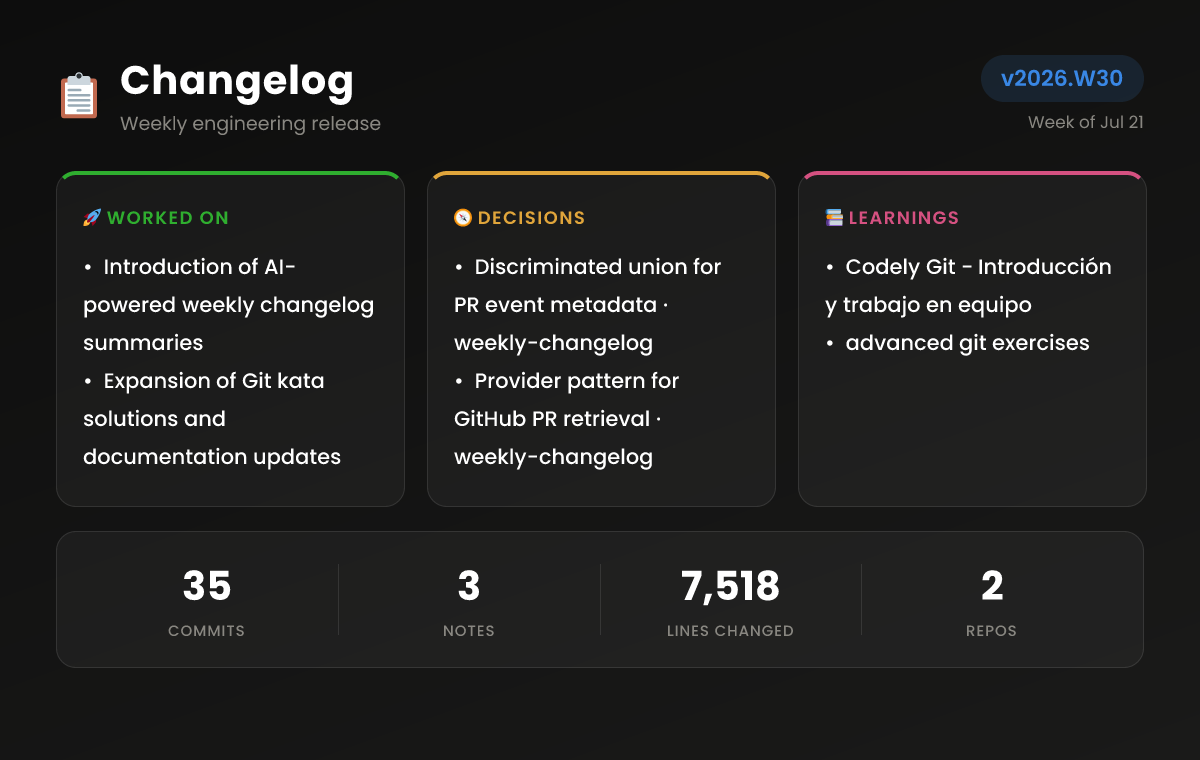
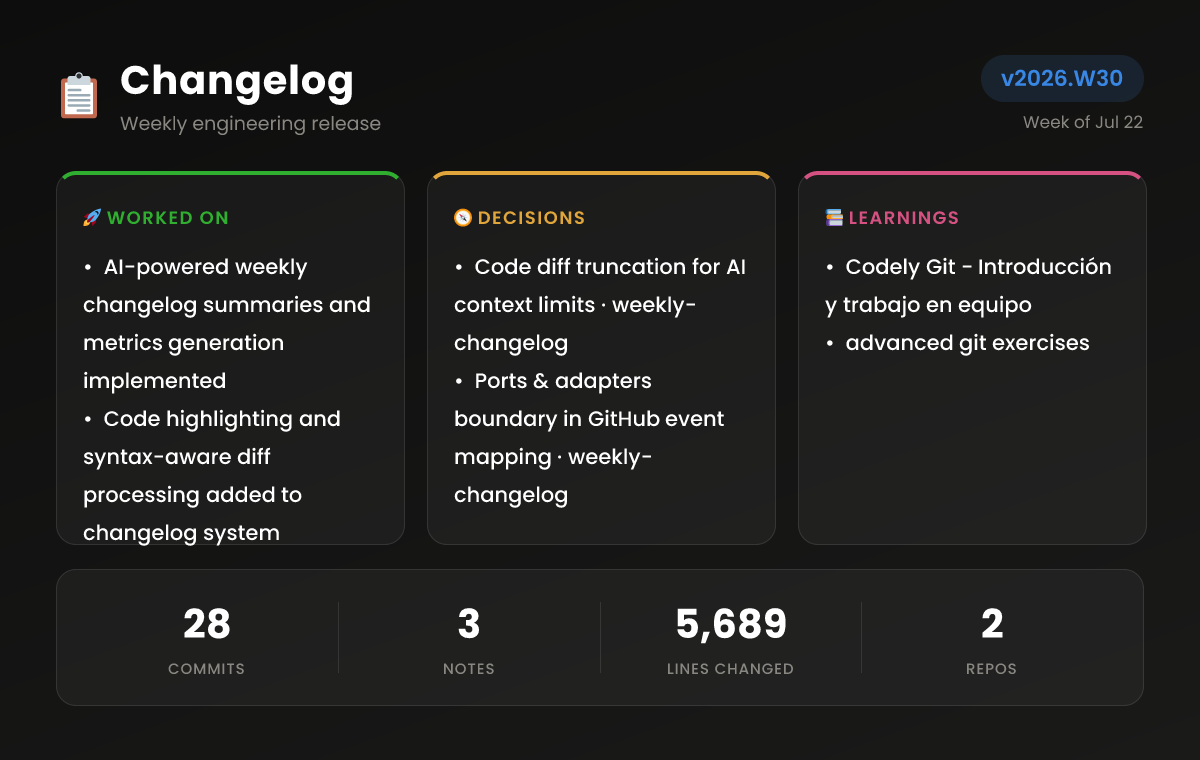
chore: publish weekly changelog (run 7)

diff --git a/docs/index.html b/docs/index.html
@@ -222,13 +222,13 @@
   <div class="page">
     <header class="page-header">
       <h1>Weekly Changelog</h1>
-      <span class="week-pill">Week of Jul 21</span>
+      <span class="week-pill">Week of Jul 22</span>
     </header>
     
     <section class="digest-hero accent-yellow">
       <p class="digest-eyebrow"><span class="ai-badge">AI</span>This week</p>
-      <h2 class="digest-headline">AI changelog summaries and Git kata enhancements deployed</h2>
-      <p class="digest-summary">AI-driven digest generation and third-party pull request tracking introduced. Git exercise solutions expanded and external repository forked.</p>
+      <h2 class="digest-headline">AI-driven changelog summaries and code highlights introduced</h2>
+      <p class="digest-summary">Introduction of AI-driven summaries and metrics for weekly changelogs, alongside code highlighting and structural enhancements to the changelog system. Git kata exercises expanded with calculator functions and login/logout workflows.</p>
     </section>
     
     <section class="dashboard-section">
@@ -236,98 +236,78 @@
       <div class="highlight-grid">
     <article class="highlight-card">
       <header class="highlight-head">
-        <span class="highlight-title"><span class="ai-badge">AI</span>Discriminated union for PR event metadata</span>
+        <span class="highlight-title"><span class="ai-badge">AI</span>Code diff truncation for AI context limits</span>
         <span class="pill highlight-repo">weekly-changelog</span>
       </header>
       <div class="highlight-body">
-        <pre class="code-panel"><code class="language-typescript">export type PullRequestState = &#39;opened&#39; | &#39;merged&#39;
+        <pre class="code-panel"><code class="language-typescript">const MAX_PATCH_CHARS_PER_FILE = 1600
+const MAX_FILES = 14
+const MAX_DIFF_CHARS = 9000
 
-export interface PullRequestEventMeta {
-  [key: string]: unknown
-  source: &#39;github&#39;
-  type: &#39;PullRequestEvent&#39;
-  state: PullRequestState
-  repo: string
-  number: number
-  title: string
-  url: string
-}
+function buildCodeDiffs(activities: Activity[]): string {
+  const blocks: string[] = []
+  let fileCount = 0
+  let totalChars = 0
 
-export function isPullRequestEvent(metaData: Record&lt;string, unknown&gt;): metaData is PullRequestEventMeta {
-  return metaData.type === &#39;PullRequestEvent&#39;
+  for (const activity of activities) {
+    const meta = activity.metaData
+    if (!isPushEvent(meta)) continue
+
+    const repo = repoShortName(meta.repo.name)
+
+    for (const file of meta.files ?? []) {
+      if (!file.patch || NOISE_PATH.test(file.filename)) continue
+      if (fileCount &gt;= MAX_FILES || totalChars &gt;= MAX_DIFF_CHARS) break
+
+      const patch = file.patch.length &gt; MAX_PATCH_CHARS_PER_FILE
+        ? `${file.patch.slice(0, MAX_PATCH_CHARS_PER_FILE)}\n… (truncated)`
+        : file.patch
+
+      const block = `# repo: ${repo}\n# file: ${file.filename}\n${patch}`
+      blocks.push(block)
+      fileCount++
+      totalChars += block.length
+    }
+  }
+
+  return blocks.join(&#39;\n\n&#39;)
 }</code></pre>
         <pre class="mermaid">flowchart TD
-  A[Activity] --&gt; B{Meta Type}
-  B --&gt;|PullRequestEvent| C[PR Event Meta]
-  B --&gt;|Other| D[Other Meta]</pre>
+  A[GitHub Push Event] --&gt; B[Filter Noise Paths]
+  B --&gt; C[Truncate Patches]
+  C --&gt; D[Limit Files &amp; Chars]
+  D --&gt; E[AI Digest Generation]</pre>
       </div>
     </article>
     <article class="highlight-card">
       <header class="highlight-head">
-        <span class="highlight-title"><span class="ai-badge">AI</span>Provider pattern for GitHub PR retrieval</span>
+        <span class="highlight-title"><span class="ai-badge">AI</span>Ports &amp; adapters boundary in GitHub event mapping</span>
         <span class="pill highlight-repo">weekly-changelog</span>
       </header>
       <div class="highlight-body">
-        <pre class="code-panel"><code class="language-typescript">export class GithubPullRequestRetriever extends SourceRetriever {
-  constructor(
-    private readonly retriever: Octokit,
-    private readonly userName: string,
-    mappers: EventMapper[]
-  ) {
-    super(mappers);
-  }
-
-  async fetchAll(): Promise&lt;any[]&gt; {
-    const q = `type:pr author:${this.userName} -user:${this.userName} is:public`;
-    const response = await this.retriever.rest.search.issuesAndPullRequests({
-      q,
-      sort: &#39;updated&#39;,
-      order: &#39;desc&#39;,
-      per_page: 50,
-    });
-    return response.data.items;
+        <pre class="code-panel"><code class="language-typescript">export class GithubPushEventMapper implements EventMapper {
+  map(event: GithubPushEvent): Activity {
+    const files = (event.rawCommits.files ?? []).map((file) =&gt; ({
+      filename: file.filename,
+      additions: file.additions ?? 0,
+      deletions: file.deletions ?? 0,
+      ...(file.patch ? { patch: file.patch } : {}),
+    }));
+    return {
+      ...this.baseActivity(event),
+      metaData: {
+        ...this.baseMetaData(event),
+        files,
+      },
+    };
   }
 }</code></pre>
         <pre class="mermaid">flowchart TD
-  A[GithubPullRequestRetriever] --&gt; B[SourceRetriever]
-  A --&gt; C[Octokit]
-  A --&gt; D[EventMapper]</pre>
-      </div>
-    </article>
-    <article class="highlight-card">
-      <header class="highlight-head">
-        <span class="highlight-title"><span class="ai-badge">AI</span>Adapter for GitHub PR search API mapping</span>
-        <span class="pill highlight-repo">weekly-changelog</span>
-      </header>
-      <div class="highlight-body">
-        <pre class="code-panel"><code class="language-typescript">export class GithubPullRequestEventMapper implements EventMapper {
-    canHandle(item: any): boolean {
-        if (!item?.pull_request) return false
-        const merged = Boolean(item.pull_request.merged_at)
-        const open = item.state === &#39;open&#39;
-        return merged || open
-    }
-
-    map(item: any): Activity {
-        const mergedAt: string | null = item.pull_request?.merged_at ?? null
-        const state = mergedAt ? &#39;merged&#39; : &#39;opened&#39;
-        const occurredAt = mergedAt ?? item.created_at
-
-        return Activity.create(new Date(occurredAt), {
-            source: &#39;github&#39;,
-            type: &#39;PullRequestEvent&#39;,
-            state,
-            repo: repoFromApiUrl(item.repository_url),
-            number: item.number,
-            title: item.title,
-            url: item.html_url,
-        })
-    }
-}</code></pre>
-        <pre class="mermaid">flowchart TD
-  A[GithubPullRequestEventMapper] --&gt; B[EventMapper]
-  A --&gt; C[Activity]
-  A --&gt; D[PullRequestEvent]</pre>
+  A[GithubPushEvent] --&gt; B[EventMapper Interface]
+  B --&gt; C[GithubPushEventMapper.map]
+  C --&gt; D[Domain Activity]
+  D --&gt; E[Files with Patch Data]
+  E --&gt; F[AI Digest Generation]</pre>
       </div>
     </article></div>
     </section>
@@ -336,15 +316,15 @@ export function isPullRequestEvent(metaData: Record&lt;string, unknown&gt;): met
       <h2>Metrics</h2>
       <div class="metric-grid">
     <div class="metric-tile">
-      <span class="metric-value">89%</span>
+      <span class="metric-value">86%</span>
       <span class="metric-label">Atomic commits</span>
     </div>
     <div class="metric-tile">
-      <span class="metric-value">215</span>
+      <span class="metric-value">203</span>
       <span class="metric-label">Avg commit size (lines)</span>
     </div>
     <div class="metric-tile">
-      <span class="metric-value">3%</span>
+      <span class="metric-value">4%</span>
       <span class="metric-label">Test ratio</span>
     </div>
     <div class="metric-tile">
@@ -352,7 +332,7 @@ export function isPullRequestEvent(metaData: Record&lt;string, unknown&gt;): met
       <span class="metric-label">Refactor ratio</span>
     </div>
     <div class="metric-tile">
-      <span class="metric-value">3%</span>
+      <span class="metric-value">4%</span>
       <span class="metric-label">Documentation ratio</span>
     </div>
     <div class="metric-tile">
@@ -366,31 +346,31 @@ export function isPullRequestEvent(metaData: Record&lt;string, unknown&gt;): met
     <div class="bar-row">
       <span class="bar-label">feat</span>
       <span class="bar-track"><span class="bar-fill" style="width: 100%"></span></span>
-      <span class="bar-value">25</span>
+      <span class="bar-value">19</span>
     </div>
     <div class="bar-row">
       <span class="bar-label">other</span>
-      <span class="bar-track"><span class="bar-fill" style="width: 16%"></span></span>
+      <span class="bar-track"><span class="bar-fill" style="width: 21.052631578947366%"></span></span>
       <span class="bar-value">4</span>
     </div>
     <div class="bar-row">
       <span class="bar-label">chore</span>
-      <span class="bar-track"><span class="bar-fill" style="width: 12%"></span></span>
-      <span class="bar-value">3</span>
+      <span class="bar-track"><span class="bar-fill" style="width: 10.526315789473683%"></span></span>
+      <span class="bar-value">2</span>
     </div>
     <div class="bar-row">
       <span class="bar-label">docs</span>
-      <span class="bar-track"><span class="bar-fill" style="width: 4%"></span></span>
+      <span class="bar-track"><span class="bar-fill" style="width: 5.263157894736842%"></span></span>
       <span class="bar-value">1</span>
     </div>
     <div class="bar-row">
       <span class="bar-label">test</span>
-      <span class="bar-track"><span class="bar-fill" style="width: 4%"></span></span>
+      <span class="bar-track"><span class="bar-fill" style="width: 5.263157894736842%"></span></span>
       <span class="bar-value">1</span>
     </div>
     <div class="bar-row">
       <span class="bar-label">fix</span>
-      <span class="bar-track"><span class="bar-fill" style="width: 4%"></span></span>
+      <span class="bar-track"><span class="bar-fill" style="width: 5.263157894736842%"></span></span>
       <span class="bar-value">1</span>
     </div></div>
         </div>
@@ -400,41 +380,41 @@ export function isPullRequestEvent(metaData: Record&lt;string, unknown&gt;): met
     <div class="bar-row">
       <span class="bar-label">TypeScript</span>
       <span class="bar-track"><span class="bar-fill" style="width: 100%"></span></span>
-      <span class="bar-value">134</span>
+      <span class="bar-value">114</span>
     </div>
     <div class="bar-row">
       <span class="bar-label">HTML</span>
-      <span class="bar-track"><span class="bar-fill" style="width: 6.7164179104477615%"></span></span>
-      <span class="bar-value">9</span>
-    </div>
-    <div class="bar-row">
-      <span class="bar-label">JSON</span>
-      <span class="bar-track"><span class="bar-fill" style="width: 3.731343283582089%"></span></span>
+      <span class="bar-track"><span class="bar-fill" style="width: 4.385964912280701%"></span></span>
       <span class="bar-value">5</span>
     </div>
     <div class="bar-row">
       <span class="bar-label">Markdown</span>
-      <span class="bar-track"><span class="bar-fill" style="width: 2.2388059701492535%"></span></span>
+      <span class="bar-track"><span class="bar-fill" style="width: 2.631578947368421%"></span></span>
+      <span class="bar-value">3</span>
+    </div>
+    <div class="bar-row">
+      <span class="bar-label">JSON</span>
+      <span class="bar-track"><span class="bar-fill" style="width: 2.631578947368421%"></span></span>
       <span class="bar-value">3</span>
     </div>
     <div class="bar-row">
       <span class="bar-label">JavaScript</span>
-      <span class="bar-track"><span class="bar-fill" style="width: 1.4925373134328357%"></span></span>
+      <span class="bar-track"><span class="bar-fill" style="width: 1.7543859649122806%"></span></span>
       <span class="bar-value">2</span>
     </div>
     <div class="bar-row">
       <span class="bar-label">Python</span>
-      <span class="bar-track"><span class="bar-fill" style="width: 1.4925373134328357%"></span></span>
+      <span class="bar-track"><span class="bar-fill" style="width: 1.7543859649122806%"></span></span>
       <span class="bar-value">2</span>
     </div>
     <div class="bar-row">
       <span class="bar-label">Shell</span>
-      <span class="bar-track"><span class="bar-fill" style="width: 0.7462686567164178%"></span></span>
+      <span class="bar-track"><span class="bar-fill" style="width: 0.8771929824561403%"></span></span>
       <span class="bar-value">1</span>
     </div>
     <div class="bar-row">
       <span class="bar-label">YAML</span>
-      <span class="bar-track"><span class="bar-fill" style="width: 0.7462686567164178%"></span></span>
+      <span class="bar-track"><span class="bar-fill" style="width: 0.8771929824561403%"></span></span>
       <span class="bar-value">1</span>
     </div></div>
         </div>
@@ -452,7 +432,7 @@ export function isPullRequestEvent(metaData: Record&lt;string, unknown&gt;): met
             <span class="pill">14 commits</span>
           </span>
         </header>
-        <p class="repo-evaluation"><span class="ai-badge">AI</span>Git exercise solutions expanded with calculator functions and login/logout workflows documented</p>
+        <p class="repo-evaluation"><span class="ai-badge">AI</span>Calculator functions and login/logout workflows added to git kata exercises</p>
         <ul class="commits">
           <li>chore: initial commit</li><li>feat: add login</li><li>feat: add logout</li><li>Merge pull request #2 from jormiquis/feature/02-squash-rebase-solution</li><li>feat: add login</li><li>feat: add logout</li><li>feat: add divide function</li><li>feat: add power function</li><li>docs: update readme</li><li>test:  add test for calculator</li><li>chore: delete .sh unnused code</li><li>Merge pull request #1 from jormiquis/feature/first-exercise-solution</li><li>Initial commit: basic calculator</li><li>feat: first exercise statement, wrong commit to be broken down for proper git history</li>
         </ul>
@@ -462,15 +442,15 @@ export function isPullRequestEvent(metaData: Record&lt;string, unknown&gt;): met
         <header class="entry-head">
           <a class="entry-title" href="https://github.com/jormiquis/weekly-changelog" target="_blank" rel="noopener">weekly-changelog</a>
           <span class="head-meta">
-            <span class="diffstat"><span class="add">+6230</span> <span class="del">−1229</span></span>
-            <span class="pill">21 commits</span>
+            <span class="diffstat"><span class="add">+4308</span> <span class="del">−1322</span></span>
+            <span class="pill">14 commits</span>
           </span>
         </header>
-        <p class="repo-evaluation"><span class="ai-badge">AI</span>AI-driven changelog generation and third-party PR tracking implemented with new dashboard and visual improvements</p>
+        <p class="repo-evaluation"><span class="ai-badge">AI</span>AI-driven changelog summaries, code highlighting, and structural enhancements implemented</p>
         <ul class="commits">
-          <li>feat: add pr flow for own and open source contributions</li><li>feat: enhance weekly changelog with AI-driven summaries and metrics</li><li>feat: delegated content to ai</li><li>feat: added forkEvent to flow</li><li>feat: added forkEvent to flow</li><li>added telegramChecker</li><li>feat: added telegram checker</li><li>feat: Implement MistralSourceSynthesizer for AI digest generation</li><li>feat: Enhance event handling to ignore private GitHub events and update permissions</li><li>feat: created new changelog card and adapted dashboard</li><li>fix: updated ngative response from telegram bot</li><li>feat: post generation delegated on deterministic approach</li><li>feat: update build script to copy fonts to distribution</li><li>feat: made card larger for better readabily</li><li>feat: re-styles visual components</li><li>feat: created dashboard</li><li>feat: created dashboard</li><li>feat: added index html</li><li>chore: disable Jekyll for GitHub Pages</li><li>feat: added card component</li><li>feat: added rule to gh mapper for just capturing pushes for owner repos</li>
+          <li>feat: add code highlights</li><li>feat: add pr flow for own and open source contributions</li><li>feat: enhance weekly changelog with AI-driven summaries and metrics</li><li>feat: delegated content to ai</li><li>feat: added forkEvent to flow</li><li>feat: added forkEvent to flow</li><li>added telegramChecker</li><li>feat: added telegram checker</li><li>feat: Implement MistralSourceSynthesizer for AI digest generation</li><li>feat: Enhance event handling to ignore private GitHub events and update permissions</li><li>feat: created new changelog card and adapted dashboard</li><li>fix: updated ngative response from telegram bot</li><li>feat: post generation delegated on deterministic approach</li><li>feat: update build script to copy fonts to distribution</li>
         </ul>
-        <a class="diff-link" href="https://github.com/jormiquis/weekly-changelog/compare/4cbdd683d0c5ecbbfd45ca4b3c28b70e3c662dec...7180d29c818aa7af327999f36e51365f76b6cafa.diff" target="_blank" rel="noopener">View full diff &rarr;</a>
+        <a class="diff-link" href="https://github.com/jormiquis/weekly-changelog/compare/a94dc164977ae891eacd22e72ed887e3add7d430...b7820254a3f09068bddeb72e873e26d38d776817.diff" target="_blank" rel="noopener">View full diff &rarr;</a>
       </article></div>
     </section>
     
@@ -494,7 +474,7 @@ export function isPullRequestEvent(metaData: Record&lt;string, unknown&gt;): met
         <header class="entry-head">
           <span class="entry-title"><span class="emoji">📝</span>Codely Git - Introducción y trabajo en equipo</span>
         </header>
-        <p class="repo-evaluation"><span class="ai-badge">AI</span>Documentation note outlining Git introduction and team collaboration practices</p>
+        <p class="repo-evaluation"><span class="ai-badge">AI</span>Note documenting collaborative Git workflows and team-based exercises</p>
         <div class="tags"><span class="tag">courses</span><span class="tag">good-practices</span><span class="tag">git</span></div>
         <div class="sources"><span class="sources-label">Sources</span><a href="https://codely.com/" target="_blank" rel="noopener">https://codely.com/</a></div>
       </article>
@@ -502,7 +482,7 @@ export function isPullRequestEvent(metaData: Record&lt;string, unknown&gt;): met
         <header class="entry-head">
           <span class="entry-title"><span class="emoji">📝</span>advanced git exercises</span>
         </header>
-        <p class="repo-evaluation"><span class="ai-badge">AI</span>Documentation note summarizing advanced Git exercise solutions and workflows</p>
+        <p class="repo-evaluation"><span class="ai-badge">AI</span>Collection of advanced Git exercises focusing on rebase, squash, and calculator functions</p>
         <div class="tags"><span class="tag">git</span><span class="tag">good-practices</span></div>
         <div class="sources"><span class="sources-label">Sources</span><a href="https://github.com/jormiquis/advanced-git-kata" target="_blank" rel="noopener">https://github.com/jormiquis/advanced-git-kata</a><a href="https://git-scm.com/docs/git-add" target="_blank" rel="noopener">https://git-scm.com/docs/git-add</a></div>
       </article>
@@ -510,7 +490,7 @@ export function isPullRequestEvent(metaData: Record&lt;string, unknown&gt;): met
         <header class="entry-head">
           <span class="entry-title"><span class="emoji">📝</span>Brag document, work diary for software engineers</span>
         </header>
-        <p class="repo-evaluation"><span class="ai-badge">AI</span>Documentation note describing a work diary template for tracking engineering achievements</p>
+        <p class="repo-evaluation"><span class="ai-badge">AI</span>Template for tracking achievements and professional growth in software engineering</p>
         <div class="tags"><span class="tag">Documentation</span><span class="tag">good-practices</span></div>
         <div class="sources"><span class="sources-label">Sources</span><a href="https://blog.pragmaticengineer.com/work-log-template-for-software-engineers/" target="_blank" rel="noopener">https://blog.pragmaticengineer.com/work-log-template-for-software-engineers/</a><a href="https://jvns.ca/blog/brag-documents/?ref=blog.pragmaticengineer.com" target="_blank" rel="noopener">https://jvns.ca/blog/brag-documents/?ref=blog.pragmaticengineer.com</a></div>
       </article></div>
@@ -518,7 +498,7 @@ export function isPullRequestEvent(metaData: Record&lt;string, unknown&gt;): met
     
   </div>
   <footer>
-    Generated Jul 21, 5:13 PM &middot; <a href="https://github.com/jormiquis/weekly-changelog">weekly-changelog</a>
+    Generated Jul 22, 8:23 AM &middot; <a href="https://github.com/jormiquis/weekly-changelog">weekly-changelog</a>
   </footer>
   <script src="https://cdn.jsdelivr.net/gh/highlightjs/cdn-release@11.9.0/build/highlight.min.js"></script>
   <script>window.hljs && document.querySelectorAll('.code-panel code').forEach(function (block) { window.hljs.highlightElement(block) });</script>
